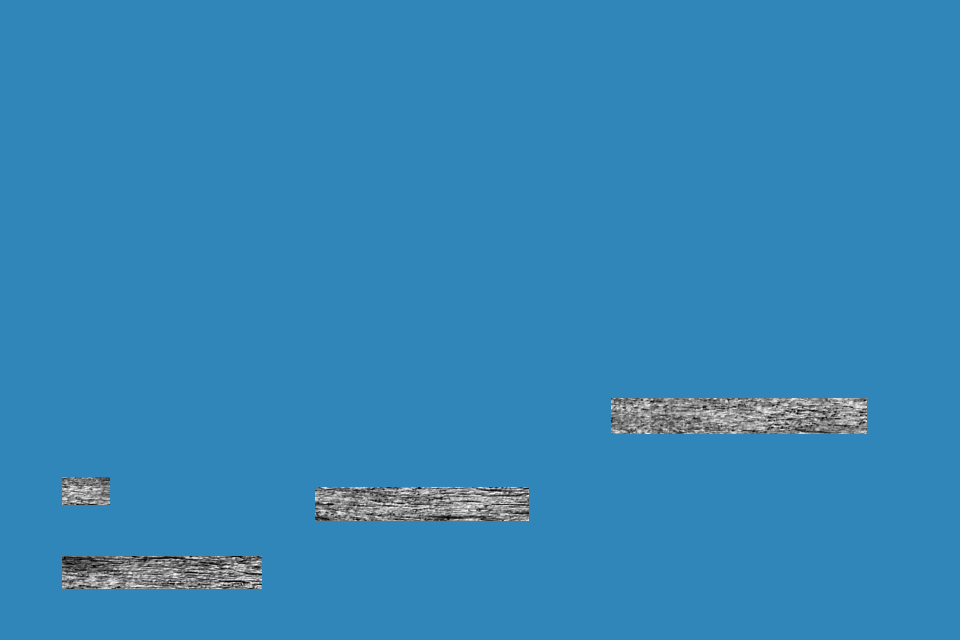
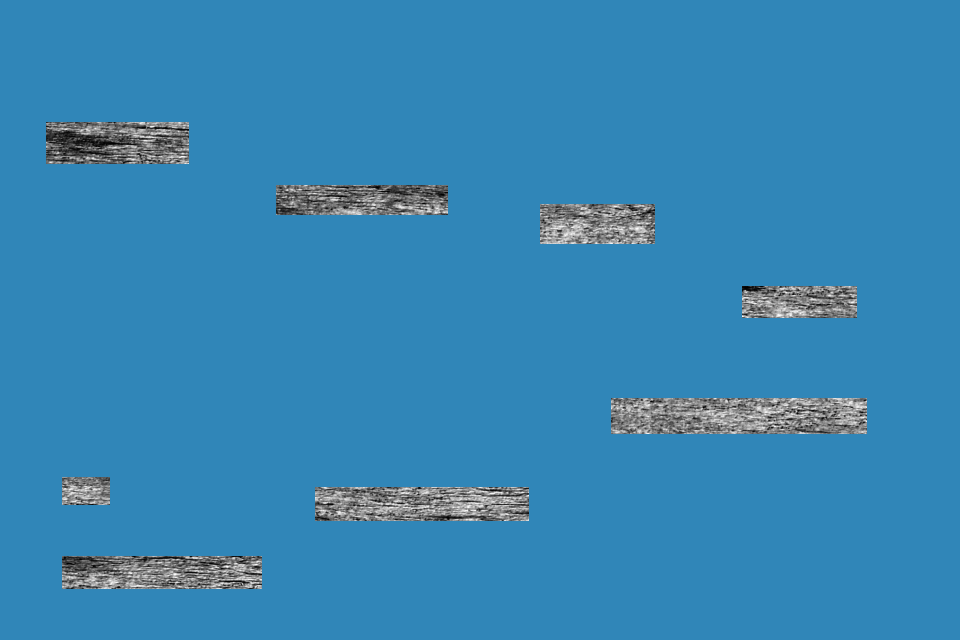
Fix map and coordinate system

diff --git a/Classes/Bonuses.cpp b/Classes/Bonuses.cpp
@@ -5,10 +5,10 @@
 
 USING_NS_CC;
 
-Bonuses* Bonuses::create(PhysicsEngine *physEngine, std::istream &in)
+Bonuses* Bonuses::create(PhysicsEngine *physEngine, std::istream &in, int mapHeight)
 {
 	Bonuses *pRet = new (std::nothrow) Bonuses(physEngine);
-	if (pRet && pRet->init(in))
+	if (pRet && pRet->init(in, mapHeight))
 	{
 		pRet->autorelease();
 	}
@@ -23,7 +23,7 @@ Bonuses::Bonuses(PhysicsEngine *physEngine)
 	: m_physEngine(physEngine)
 {}
 
-bool Bonuses::init(std::istream &in)
+bool Bonuses::init(std::istream &in, int mapHeight)
 {
 	if (!SpriteBatchNode::initWithFile("bonus_atlas.png"))
 		return false;
@@ -34,7 +34,10 @@ bool Bonuses::init(std::istream &in)
 		for (size_t i = 0; i < bonusCnt; ++i)
 		{
 			const Rect imageRect(RawData::ReadRect(in));
-			const Vec2 origin(RawData::ReadVec2(in));
+
+			Vec2 origin(RawData::ReadVec2(in));
+			origin.y = mapHeight - origin.y;
+
 			const int value(RawData::ReadInt(in));
 
 			if (!AddBonus(imageRect, origin, value))

diff --git a/Classes/GameWorld.cpp b/Classes/GameWorld.cpp
@@ -32,7 +32,10 @@ bool GameWorld::init(std::string const& img, std::istream &in)
 		const size_t blockCnt = RawData::ReadSizeT(in);
 		for (size_t i = 0; i < blockCnt; ++i)
 		{
-			AddRectBlock(RawData::ReadRect(in));
+			const Vec2 leftUp(RawData::ReadVec2(in));
+			const Vec2 rightDown(RawData::ReadVec2(in));
+			const Size size(rightDown.x - leftUp.x, rightDown.y - leftUp.y);
+			AddRectBlock(Rect(Vec2(leftUp.x, getContentSize().height - leftUp.y - size.height), size));
 		}
 	}
 	catch (std::exception const&)
